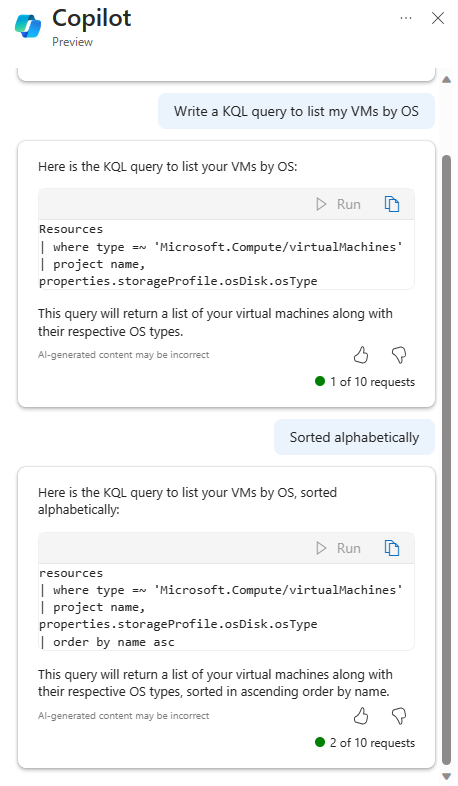
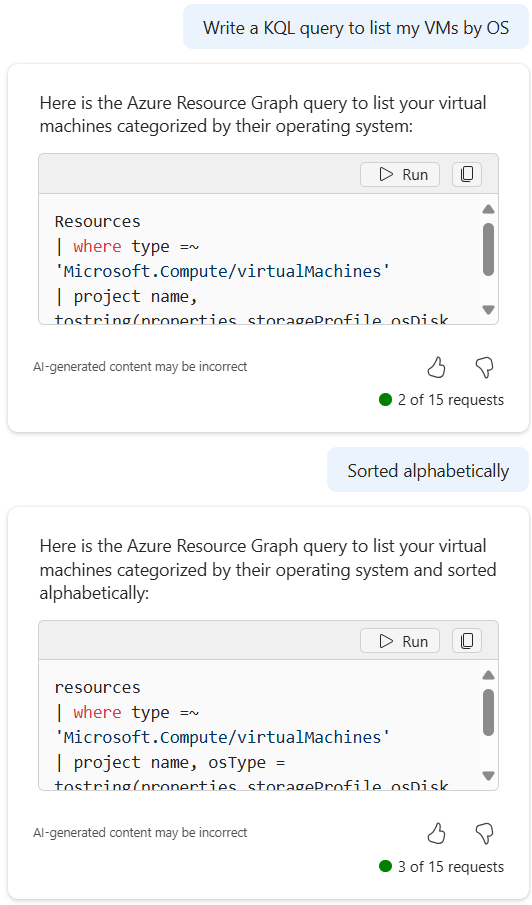
refresh ARG images

diff --git a/articles/copilot/get-information-resource-graph.md b/articles/copilot/get-information-resource-graph.md
@@ -1,7 +1,7 @@
 ---
 title: Get resource information using Microsoft Copilot in Azure (preview)
 description: Learn about scenarios where Microsoft Copilot in Azure (preview) can help with Azure Resource Graph.
-ms.date: 05/28/2024
+ms.date: 10/14/2024
 ms.topic: how-to
 ms.service: copilot-for-azure
 ms.custom:
